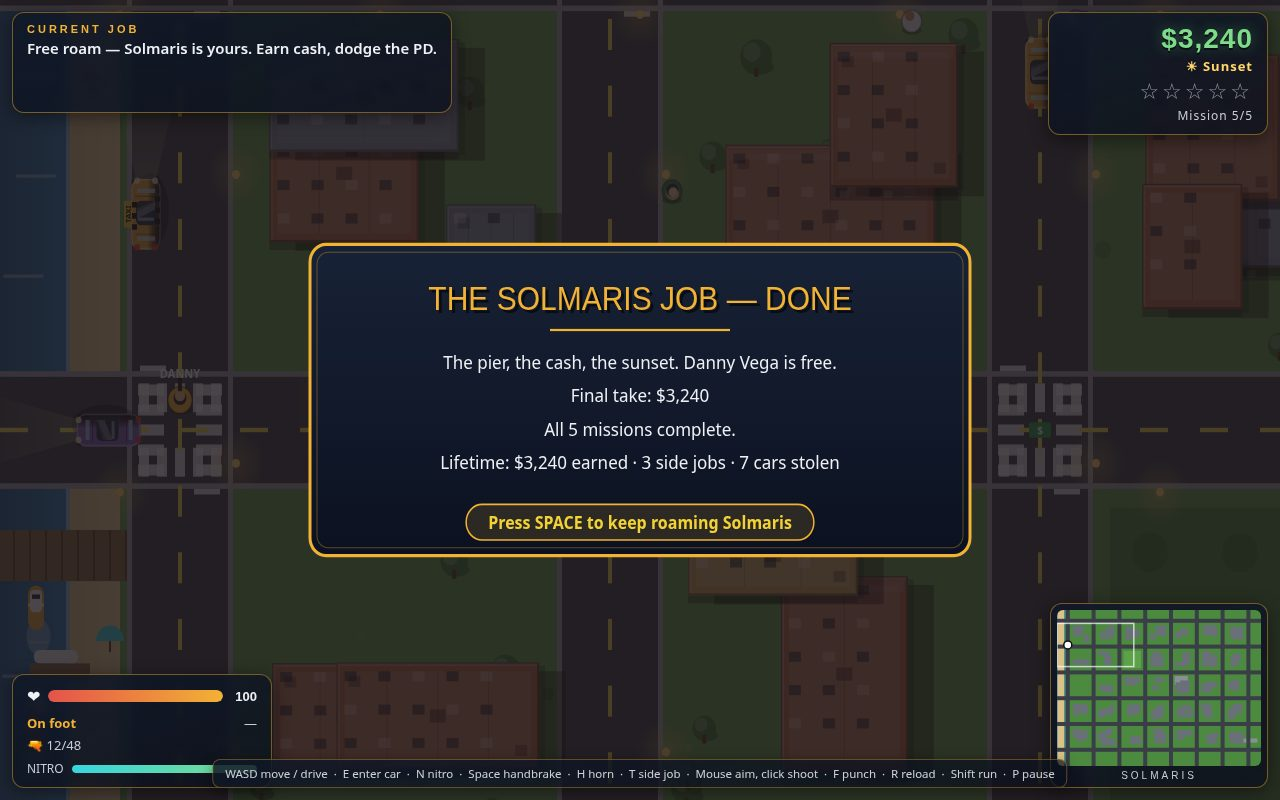
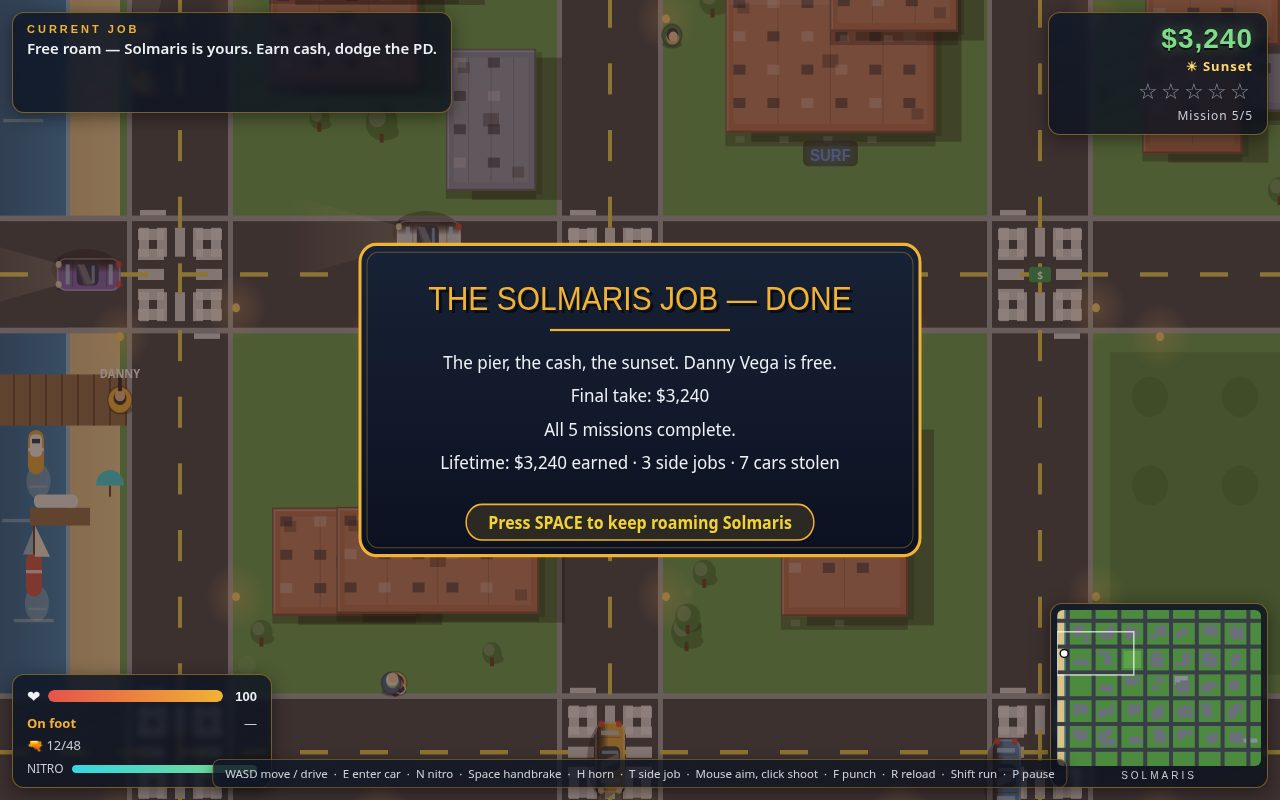
Solmaris v6: 4-star PIT + roadblock chase, pale cap-brim edge near camera, narrower/lighter win panel over the pier

diff --git a/game/src/render.js b/game/src/render.js
@@ -632,7 +632,7 @@ export function createRenderer(canvas, hud) {
     }
   }
 
-  function drawPed(c, ped, night) {
+  function drawPed(c, ped, night, nearCam) {
     if (ped.dead) return;
     const bob = Math.sin(ped.walkPhase) * 1.5;
     const swing = Math.sin(ped.walkPhase) * 5;
@@ -703,6 +703,17 @@ export function createRenderer(canvas, hud) {
         c.beginPath();
         c.roundRect(3, -4.5, 8, 9, 4);
         c.fill();
+        // v6 visual: on a pedestrian close to the camera the cap brim gets
+        // a pale edge, so the hat still reads at 1x — a dark brim on dark
+        // hair vanishes without it. Only near-camera peds get the edge:
+        // edging every hat in the crowd would read as dirt.
+        if (nearCam) {
+          c.strokeStyle = 'rgba(255,255,255,0.85)';
+          c.lineWidth = 1.4;
+          c.beginPath();
+          c.roundRect(3, -4.5, 8, 9, 4);
+          c.stroke();
+        }
       } else {
         c.beginPath();
         c.ellipse(0, 0, 9.5, 8.5, 0, 0, Math.PI * 2);
@@ -1075,11 +1086,15 @@ export function createRenderer(canvas, hud) {
     if (hud.sidejob) hud.sidejob.textContent = sideText;
   }
 
-  function drawPanel(title, lines, prompt) {
+  // v6: panels take options — the win screen runs narrower with a lighter
+  // dim ({ w: 560, dim: 0.42 }) so the sunset pier, Danny and the boats at
+  // the frame edges stay visible instead of drowning behind the panel.
+  function drawPanel(title, lines, prompt, opts) {
+    const o = opts || {};
     ctx.save();
-    ctx.fillStyle = 'rgba(8, 12, 22, 0.72)';
+    ctx.fillStyle = `rgba(8, 12, 22, ${o.dim ?? 0.72})`;
     ctx.fillRect(0, 0, VIEW_W, VIEW_H);
-    const w = 660;
+    const w = o.w || 660;
     const h = 160 + lines.length * 30;
     const x = (VIEW_W - w) / 2;
     const y = (VIEW_H - h) / 2;
@@ -1161,7 +1176,14 @@ export function createRenderer(canvas, hud) {
       drawPickups(ctx, state);
       for (const car of state.trafficCars) drawCar(ctx, car, state.night, state.time, state.timeOfDay, state.rain);
       for (const cop of state.police) drawCar(ctx, cop, state.night, state.time, state.timeOfDay, state.rain);
-      for (const ped of state.peds) drawPed(ctx, ped, state.night);
+      for (const ped of state.peds) {
+        // v6: a ped near the camera focus gets the close-up hat treatment.
+        // 480 px from the focus is about two thirds of the half-diagonal,
+        // so in a typical frame one or two peds qualify — the crowd keeps
+        // its plain hats and the edge never reads as dirt.
+        const nearCam = Math.hypot(ped.x - (cam.x + VIEW_W / 2), ped.y - (cam.y + VIEW_H / 2)) < 480;
+        drawPed(ctx, ped, state.night, nearCam);
+      }
       drawPlayer(ctx, state);
       drawTracers(ctx, state);
       drawParticles(ctx, state);
@@ -1220,7 +1242,11 @@ export function createRenderer(canvas, hud) {
       } else if (screen === SCREEN_OVER) {
         drawPanel('WASTED', ['Danny went down. The city keeps moving without him.', `Money kept: $${Math.round(state.money)}`, `Missions: ${state.completedMissions.length}/${MISSIONS.length} complete.`], 'Press SPACE to try again');
       } else if (screen === SCREEN_WIN) {
-        drawPanel('THE SOLMARIS JOB — DONE', ['The pier, the cash, the sunset. Danny Vega is free.', `Final take: $${Math.round(state.money).toLocaleString('en-US')}`, 'All 5 missions complete.', `Lifetime: $${Math.round(state.stats.totalEarned).toLocaleString('en-US')} earned · ${state.stats.sideJobsDone} side jobs · ${state.stats.carsStolen} cars stolen`], 'Press SPACE to keep roaming Solmaris');
+        // v6: narrower panel, lighter dim — Danny stands on the pier in the
+        // left margin (screen x 120), the yacht and sailboat run down the
+        // left edge and the pier crosses behind the panel's left side, so
+        // the sunset harbour shows around the text instead of behind a wall.
+        drawPanel('THE SOLMARIS JOB — DONE', ['The pier, the cash, the sunset. Danny Vega is free.', `Final take: $${Math.round(state.money).toLocaleString('en-US')}`, 'All 5 missions complete.', `Lifetime: $${Math.round(state.stats.totalEarned).toLocaleString('en-US')} earned · ${state.stats.sideJobsDone} side jobs · ${state.stats.carsStolen} cars stolen`], 'Press SPACE to keep roaming Solmaris', { w: 560, dim: 0.42 });
       }
       updateHud(state, screen);
       drawMinimap(state);

diff --git a/game/src/shots.js b/game/src/shots.js
@@ -22,6 +22,10 @@ export function stageShot(name, state) {
   if (name === 'chase') {
     // v2: sunset pursuit — Danny fleeing in a sports car on nitro down Palm
     // Row, two patrol cars behind, 3 stars, the sky going orange.
+    // v6: this is a story beat now, not a static tail — 4 stars, a PIT cop
+    // already on Danny's rear quarter, and the PD's roadblock parked across
+    // the road ahead. Shot mode never steps updatePolice, so every staged
+    // car stays exactly where it is put: the frame is deterministic.
     const car = state.trafficCars.find((c) => c.carKind === 'sports') || createCar(1470, 610, 0, 'sports');
     if (!state.trafficCars.includes(car)) state.trafficCars.push(car);
     car.x = 1470;
@@ -37,7 +41,7 @@ export function stageShot(name, state) {
     state.night = false;
     state.clock = 0.62;
     state.timeOfDay = 'sunset';
-    state.wanted = 3;
+    state.wanted = 4;
     state.wantedTimer = 0;
     state.money = 1250;
     state.nitro = 62;
@@ -46,7 +50,24 @@ export function stageShot(name, state) {
     const cop2 = createCar(1230, 640, 0, 'police');
     cop1.speed = 460;
     cop2.speed = 440;
-    state.police = [cop1, cop2];
+    // The PIT: a third cop angled in on Danny's rear-right quarter, nose
+    // already at the bumper — the shove is a frame away.
+    const pit = createCar(1400, 655, -0.45, 'police');
+    pit.visualAngle = -0.45;
+    pit.speed = 480;
+    // The roadblock: two patrol cars parked across Palm Row ahead, on the
+    // y=610 road (96 px wide, so 578/642 sit in the two lanes), noses
+    // turned across the traffic — the way out is through them.
+    const block1 = createCar(1800, 578, Math.PI / 2, 'police');
+    const block2 = createCar(1800, 642, Math.PI / 2, 'police');
+    block1.visualAngle = Math.PI / 2;
+    block2.visualAngle = Math.PI / 2;
+    block1.speed = 0;
+    block2.speed = 0;
+    block1.roadblock = true;
+    block2.roadblock = true;
+    state.roadblockUp = true;
+    state.police = [cop1, cop2, pit, block1, block2];
     state.missionIndex = 3;
     state.missionStep = 0;
     // v2 visual: the getaway already laid down a drift arc behind the car.
@@ -55,7 +76,7 @@ export function stageShot(name, state) {
       { x1: 1420, y1: 622, x2: 1450, y2: 612, life: 6, maxLife: 6 },
       { x1: 1380, y1: 648, x2: 1420, y2: 640, life: 6, maxLife: 6 },
     ];
-    state.announceText = 'Hot Pursuit — lose the cops and reach the Safehouse!';
+    state.announceText = 'Roadblock ahead — 4 stars! Punch through the line!';
     return { screen: SCREEN_PLAY };
   }
   if (name === 'coast') {
@@ -91,9 +112,13 @@ export function stageShot(name, state) {
     // v4: the end screen staged as a scene — all five missions done, Danny
     // back at the pier at sunset with the take counted. v5: this is shot 1
     // in shots.json now (it replaces the title screen, whose info the HUD
-    // on the other three shots already carries).
-    p.x = 180;
-    p.y = 583;
+    // on the other three shots already carries). v6: Danny stands ON the
+    // pier (120, 723) instead of inland at (180, 583), so the camera frame
+    // is the sunset harbour itself — the pier under his feet, the yacht and
+    // sailboat down the left edge, the ocean strip behind — and the
+    // narrower, lighter win panel leaves all of it visible around the text.
+    p.x = 120;
+    p.y = 723;
     p.inCar = null;
     state.night = false;
     state.clock = 0.62;

diff --git a/REPORT.md b/REPORT.md
@@ -4,6 +4,18 @@
 **完成时间：** 2026-11-21 15:40 CST
 **工作目录：** `/home/hatch/workspace/makefun/workers/lane7-gta6-b/`
 
+## v6 — 2026-11-21（本次更新，录制 01a1fd23-69d2-753c-8e3f-920e5b9c9869 下由本 agent 手写）
+
+v5 的 3 项待办全部做完，第 4 项（碰撞速度保留系数）实测后决定不动；玩法数值、存档键、vendor、LICENSE 未动：
+
+- **追逐截图加故事：** 2 号从静态追逐升级为 4 星围捕瞬间——PIT 警车已贴上玩家车右后翼（车头距后保险杠约 20px，-0.45 rad 斜切）、两辆路障警车横停在前方 Palm Row 两条车道上（x=1800，y=578/642，车身横向），另有两辆追捕警车在后，通缉 4 星、Mission 4/5、112 km/h、氮气火焰、漂移胎痕同框，播报改为 "Roadblock ahead — 4 stars! Punch through the line!"。用的是既有路障/PIT 场景逻辑（`state.police` + `roadblock=true`），截图模式不跑 `updatePolice`，所以五辆警车位置完全确定、每拍都一样。
+- **行人帽子 1x 可见：** 只给靠近镜头（距相机焦点 480px 内，约 2/3 半对角线，每帧通常 1–2 人）的鸭舌帽加一道浅色帽檐边（`rgba(255,255,255,0.85)` 描边），远处行人一律不动——全图加粗会显脏。验证用确定性重放定位（Node 直跑 `spawnTraffic` + `stageShot` + 90 步 `updatePeds`，并修正一个认知：截图走的是开局 `spawnTraffic(state, mulberry32(seed))`，不是 `startGame` 的 `mulberry32(seed+7)`；30 次重放取位置区间，抵消 `Math.random` 换向的 ±130px 漂移）：海岸两顶深色帽与夜景一顶红帽放大 4× 裁切均见白色檐边弧线，v5 同区域对照确认 v5 没有这道边。
+- **胜利画面露背景：** `drawPanel` 加 `{ w, dim }` 选项，胜利画面用窄面板（660→560px）+ 浅遮罩（0.72→0.42）；Danny 从内陆 (180, 583) 移到栈桥上 (120, 723)，相机随之西移，画面变成日落港口本身——栈桥在 Danny 脚下、帆船与游艇沿左缘、海洋在左缘，结算信息完整（"THE SOLMARIS JOB — DONE"、Final take $3,240、All 5 missions、Lifetime 行、Mission 5/5、HUD $3,240），标题与各行在 560px 面板内均无溢出。
+- **碰撞速度保留系数（实测后不动）：** 实机测得基线曲线：直线加速 0→101 km/h 约 0.8 秒；撞车 101→7 km/h 后回升 7→101 约 1.2 秒、斜率平滑；车头顶墙保持 W 时速度钉在 1 km/h（每步 `speed *= 0.3` 的反复命中均衡态）。理论上 0.3→0.45 只把单次撞击回升缩短约 0.16 秒、顶墙均衡态从 1 提到约 2 km/h——手感没有明确变好，反而让顶墙磨墙的代价更小；真正要改生硬得做墙面滑移/偏转，是超出"微调系数"的 handling 改动。所以系数保持 0.3，任务/通缉逻辑完全未碰。
+- **截图：** 4 张全部重拍（1280×800，95–114 KiB，零报错、零失败请求）；升级前对照存 `before-visual-v6/`（不进仓库）。
+- **验证：** `node --check` 11 个 JS 全部通过；实机游玩（Space 开始、偷 Bison 后目标推进为 "Drive to the Marina"、向东开过 (1040,610) 拾取 +$80、下车步行开枪 12/48→11/48、存档 `solmaris.save.v2` 写入）零报错、零失败请求；撞车回升实测见上；`main.ts` 两次运行 dossier.json 字节一致（735,309 字节 < 1.5 MiB）；`grep` 确认 game/ 零外部请求；招牌 seed 1/2/3/7/42 复测零重叠、零超宽底板（13/15/20/26/26 块招牌）。
+- **未动：** vendor/makefun-game.ts、LICENSE、玩法数值、存档键（仍为 `solmaris.save.v2`）、`main.ts`、`serve.ts`、`config.js`、`missions.js`、碰撞系数。
+
 ## v5 — 2026-11-21（本次更新，录制 01a1fd23-69d2-753c-8e3f-920e5b9c9869 下由本 agent 手写）
 
 v4 的 6 项待办全部做完，玩法数值、存档键、vendor、LICENSE 未动：

diff --git a/README.md b/README.md
@@ -103,8 +103,8 @@ Screenshot scenes (deterministic, `seed=1`):
 
 | File | Scene |
 | --- | --- |
-| `1-win.jpg` | `?shot=win&seed=1&clock=sunset` — the win screen: final take $3,240, all 5 missions complete, over the pier at sunset |
-| `2-chase.jpg` | `?shot=chase&seed=1&clock=sunset` — sunset police pursuit in a sports car on nitro, 3 wanted stars |
+| `1-win.jpg` | `?shot=win&seed=1&clock=sunset` — the win screen: final take $3,240, all 5 missions complete, Danny standing on the Sunset Pier with the sailboat and yacht down the harbour edge |
+| `2-chase.jpg` | `?shot=chase&seed=1&clock=sunset` — sunset police pursuit at 4 stars: a PIT cop on Danny's rear quarter and the PD roadblock parked across Palm Row ahead |
 | `3-coast.jpg` | `?shot=coast&seed=1&clock=sunset` — the final escape run down the beach road: Sunset Pier, umbrellas, sailboat and yacht at anchor, ocean shimmer |
 | `4-night.jpg` | `?shot=night&seed=1&clock=night` — night driving downtown in the rain, braking under the street lamps, wet-road reflections |
 
